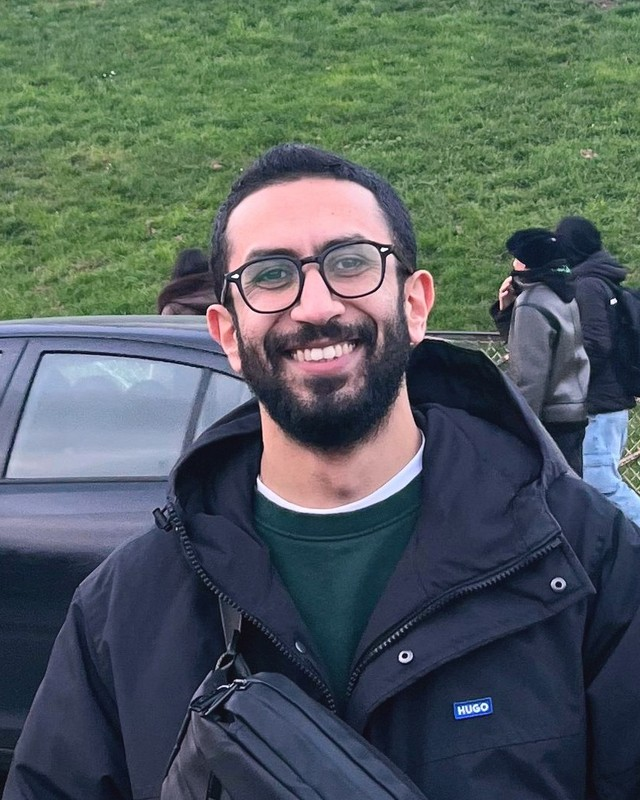
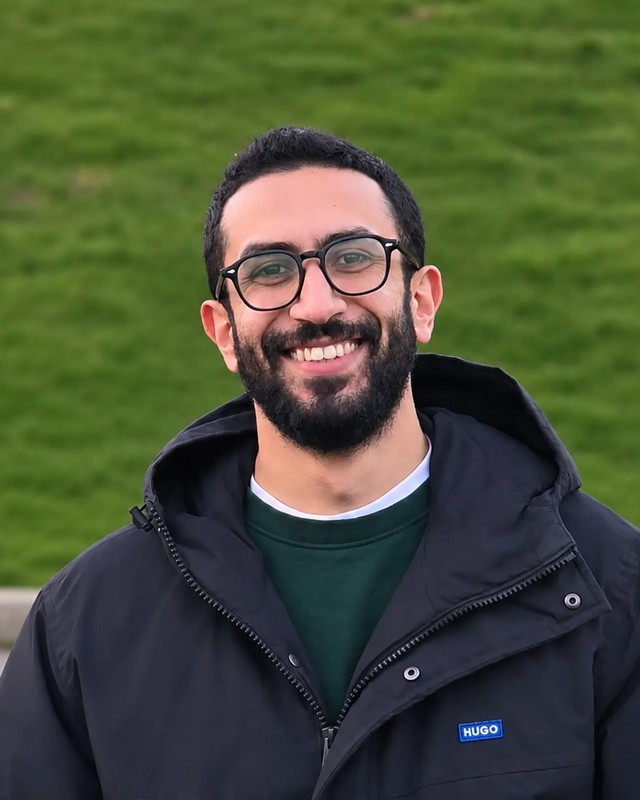
Capitalized headings, new photo, one deploy at a time

diff --git a/assets/css/main.scss b/assets/css/main.scss
@@ -49,3 +49,6 @@ html[data-theme="dark"] {
   --global-theme-color: #6fbf73;
   --global-hover-color: #6fbf73;
 }
+
+/* ---- Karim Wahba (2026-11-27): capitalized section headings ("News", "Selected Publications"); the theme writes them in lower case */
+.post h2, .navbar .nav-link { text-transform: capitalize; }

diff --git a/_pages/about.md b/_pages/about.md
@@ -1,6 +1,6 @@
 ---
 layout: about
-title: about
+title: About
 permalink: /
 subtitle: Machine Learning MSc student, <a href="https://uni-tuebingen.de/">University of Tübingen</a>
 

diff --git a/_pages/publications.md b/_pages/publications.md
@@ -1,7 +1,7 @@
 ---
 layout: page
 permalink: /publications/
-title: publications
+title: Publications
 description:
 nav: true
 nav_order: 2
